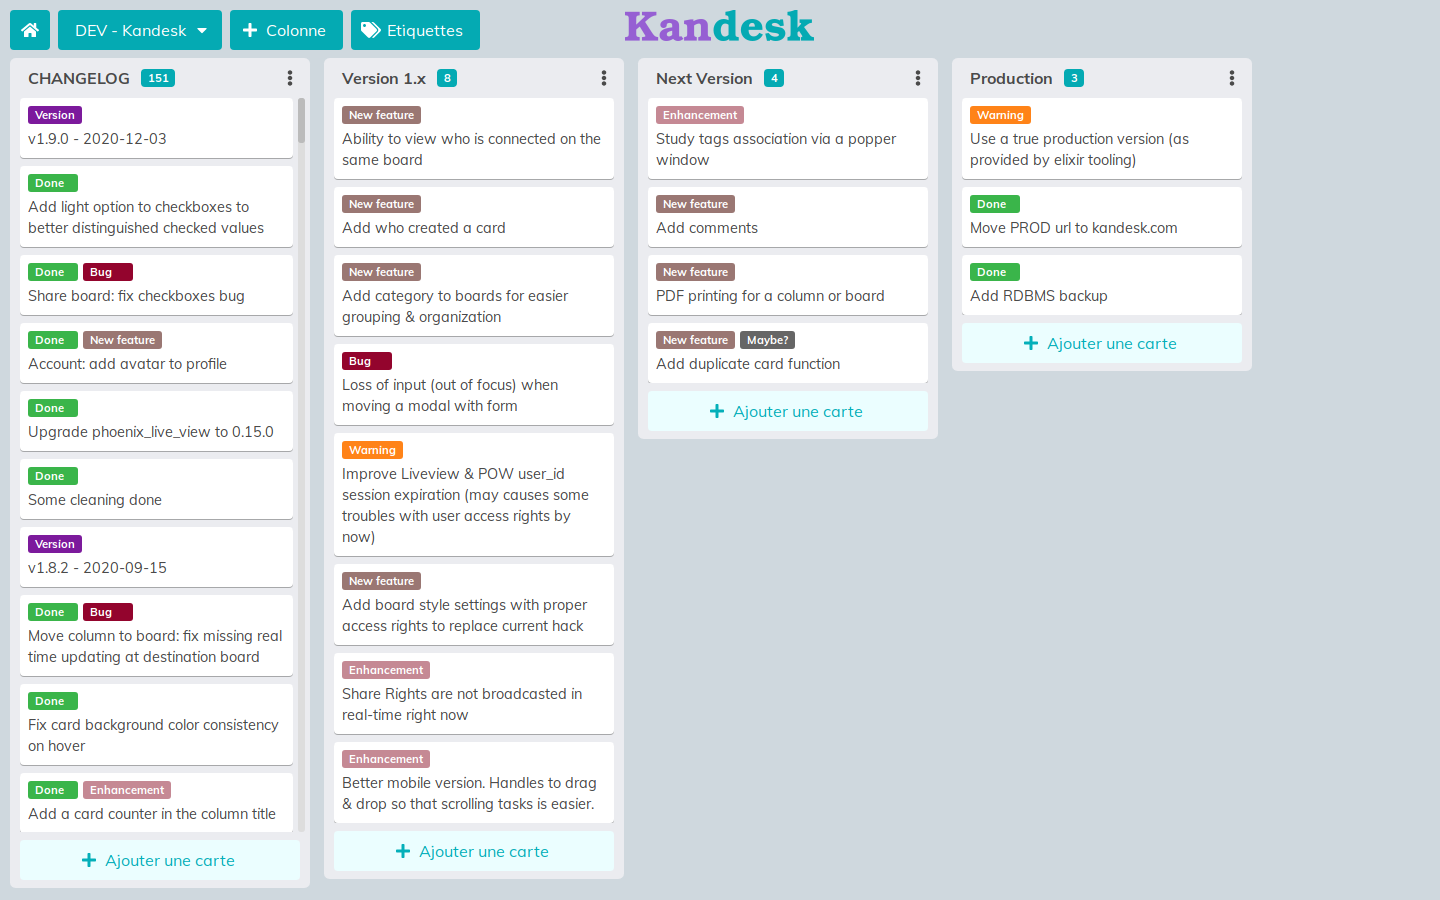
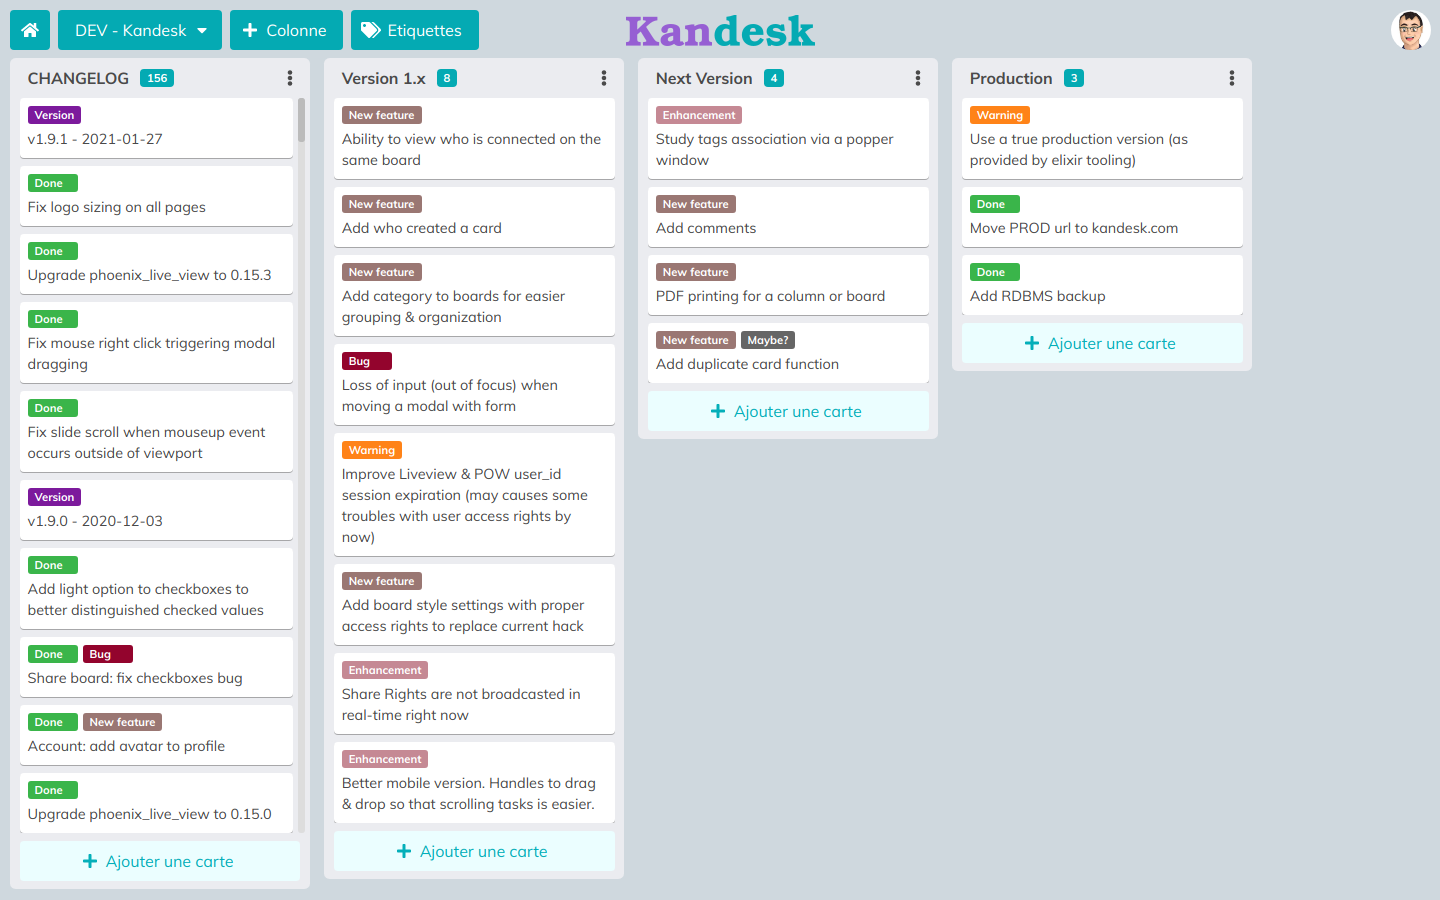
update CHANGELOG.md & kandesk.board.png

diff --git a/CHANGELOG.md b/CHANGELOG.md
@@ -1,4 +1,4 @@
-## dev
+## v1.9.1 - 2021-01-27
 
   - Fix logo sizing on all pages
   - Upgrade phoenix_live_view to 0.15.3
